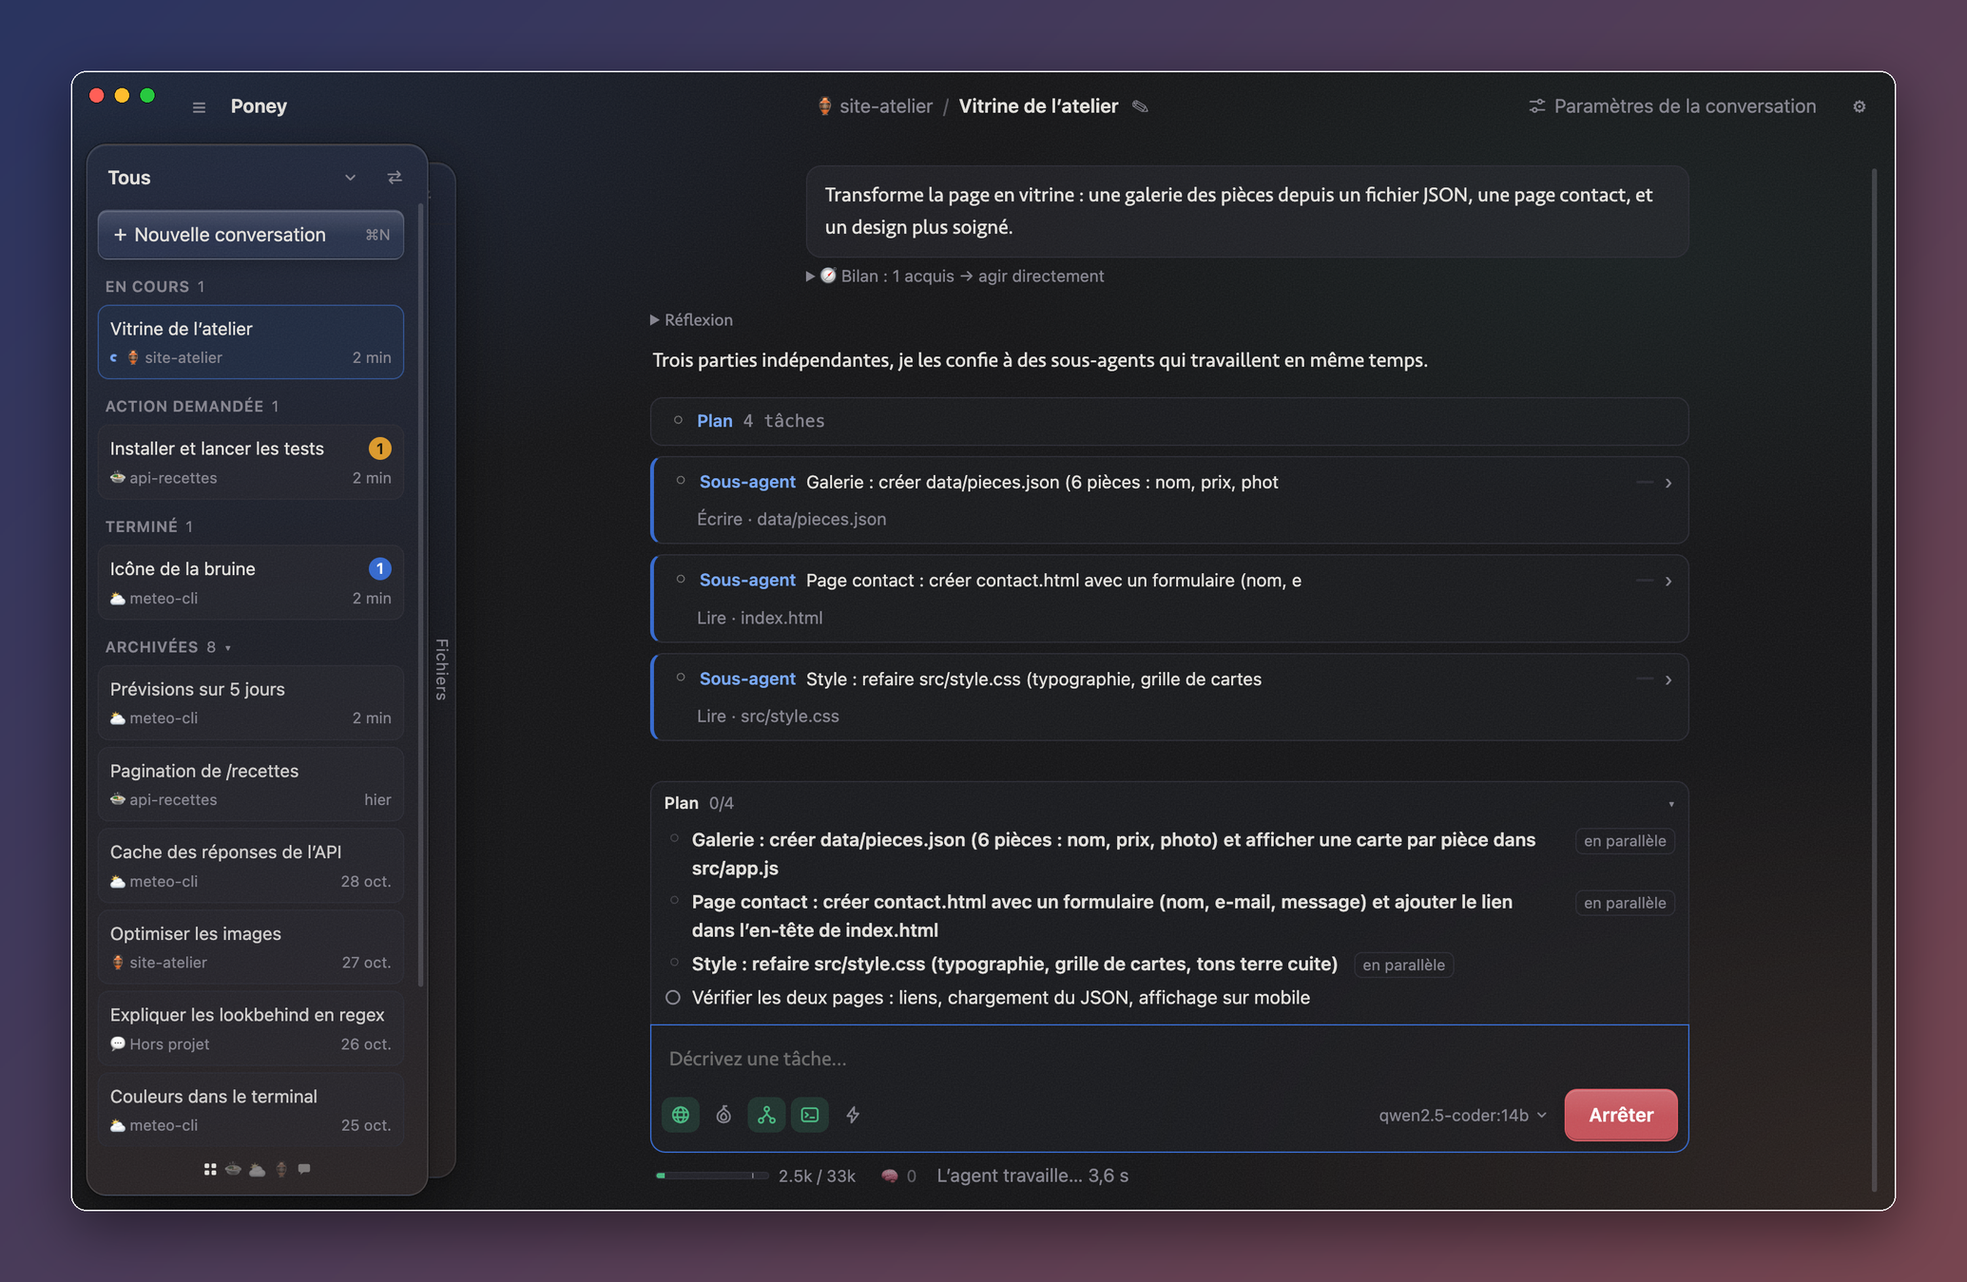
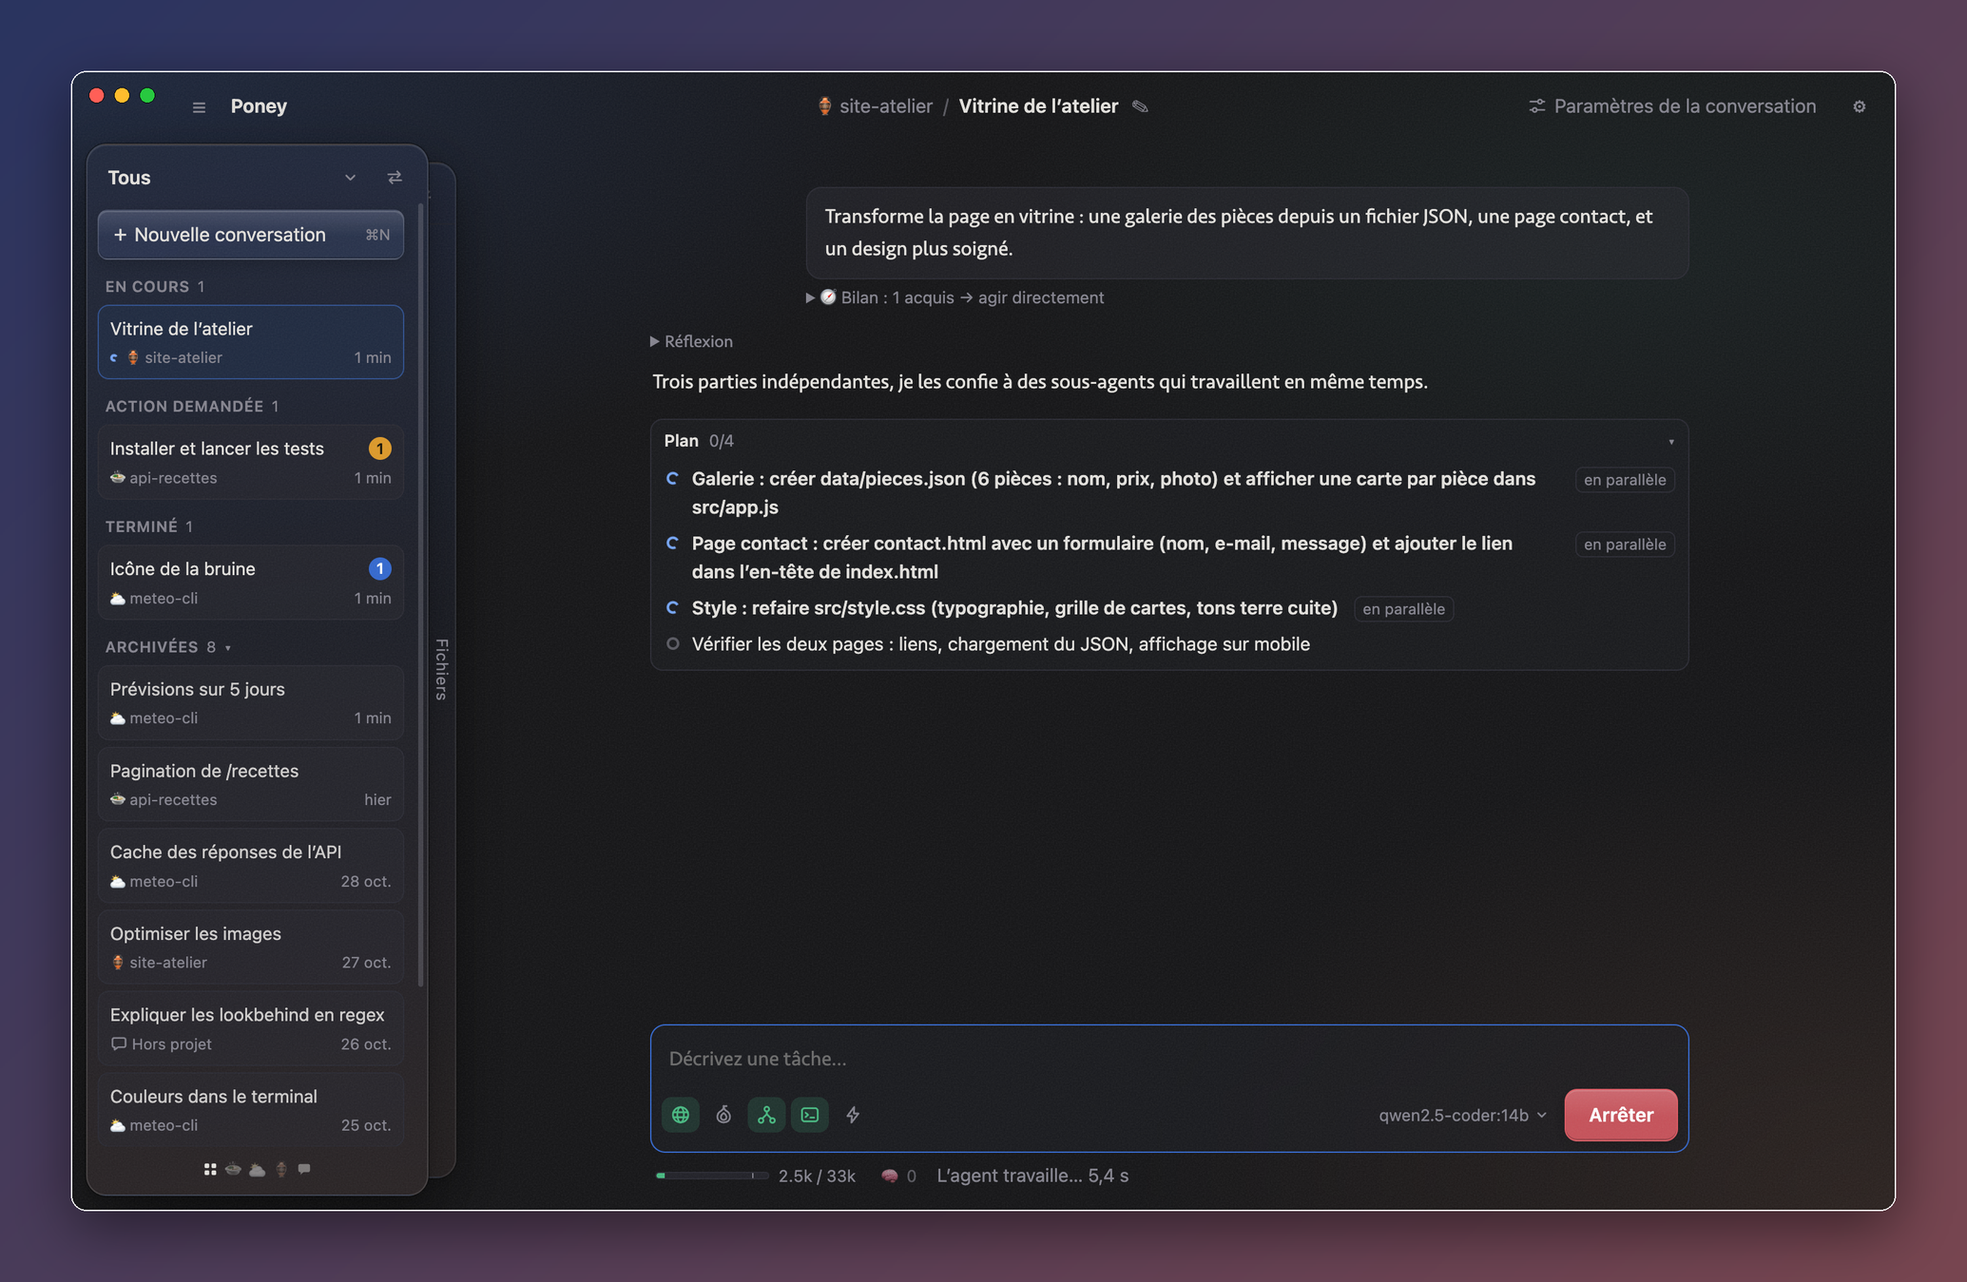
What sub-agents read counts for the assessment; plans in the conversation
A plan counted as one source however much its sub-agents had read, so a
checked answer could be refused. Their reads now count one by one. A plan
now shows in the conversation in place of its sub-agent cards: a click on
a task opens its sub-agent, and round marks give the state of each task.

diff --git a/src/renderer/app.js b/src/renderer/app.js
@@ -77,6 +77,8 @@ function setRunning(v) {
   else {
     stopRunTimer();
     $('status').textContent = '';
+    // (stopped or interrupted: nothing goes on)
+    document.querySelectorAll('.plan-list li.running').forEach((li) => li.classList.replace('running', 'pending'));
   }
 }
 
@@ -260,23 +262,48 @@ function onWorkspaceChanged() {
   refreshGauge();
 }
 
-/** The agent's task list, pinned above the input (hidden when there is none). */
-const PLAN_ICON = { pending: '○', running: '<span class="spin">◌</span>', done: '✓', failed: '✕' };
-function renderPlan(tasks = []) {
-  const panel = $('planPanel');
-  panel.classList.toggle('hidden', !tasks.length);
-  if (!tasks.length) return;
+// A plan, in the conversation: its tasks, with the state of each. The sub-agent that
+// carries out a task has no card of its own: a click on the task shows its work.
+let planBlock = null; // the plan being carried out: { el, tasks, agents (title -> action id) }
+const planTitle = (t) => taskParts(t.text).head.slice(0, 60); // (the title of its sub-agent)
+
+function startPlanBlock(card) {
+  const el = div('plan-panel', '<div class="plan-head" role="button"><span class="plan-title">Plan</span><span class="plan-count"></span><span class="plan-chev">▾</span></div><ol class="plan-list"></ol>');
+  const resume = card.querySelector('.resume-btn');
+  if (resume) el.querySelector('.plan-head').append(resume);
+  el.querySelector('.plan-head').onclick = () => el.classList.toggle('collapsed');
+  el.querySelector('.plan-list').onclick = (e) => {
+    const li = e.target.closest('li[data-agent]');
+    if (!li) return;
+    if (e.target.closest('.resume-btn')) resumeFromAction(Number(li.dataset.agent));
+    else openAgentPanel(Number(li.dataset.agent));
+  };
+  add(el);
+  planBlock = { el, tasks: [], agents: new Map() };
+}
+
+function renderPlan(tasks) {
+  if (!planBlock) return;
+  planBlock.tasks = tasks;
+  const { el, agents } = planBlock;
   const done = tasks.filter((t) => t.status === 'done').length;
-  panel.querySelector('.plan-count').textContent = `${done}/${tasks.length}`;
-  panel.querySelector('.plan-list').innerHTML = tasks.map((t) => {
+  el.querySelector('.plan-count').textContent = `${done}/${tasks.length}`;
+  el.querySelector('.plan-list').innerHTML = tasks.map((t) => {
     // (the commands of a step, which parsePlan puts in its task, as a list under it)
     const { head, parts } = taskParts(t.text);
     const sub = parts.length ? `<ul class="plan-parts">${parts.map((p) => `<li>${esc(p)}</li>`).join('')}</ul>` : '';
-    return `<li class="${t.status}"><span class="plan-box">${PLAN_ICON[t.status] || '○'}</span><div class="plan-text"><span>${esc(head)}</span>${sub}</div>${t.parallel ? '<span class="tag">en parallèle</span>' : ''}</li>`;
+    const agent = agents.get(planTitle(t));
+    const resume = agent !== undefined && cards.get(agent)?.querySelector('.resume-btn') ? '<button class="resume-btn" type="button" title="Relancer cette action et reprendre la conversation à partir d’elle (la suite est retirée)">↻ Reprendre d’ici</button>' : '';
+    return `<li class="${t.status}${agent === panelAgent && agent !== undefined ? ' shown' : ''}"${agent === undefined ? '' : ` data-agent="${agent}" title="Voir son travail dans le panneau de droite"`}><span class="plan-dot"></span><div class="plan-text"><span>${esc(head)}</span>${sub}</div>${t.parallel ? '<span class="tag">en parallèle</span>' : ''}${resume}</li>`;
   }).join('');
-  panel.classList.toggle('all-done', done === tasks.length);
+  markWaiting();
 }
-$('planPanel').querySelector('.plan-head').onclick = () => $('planPanel').classList.toggle('collapsed');
+/** A sub-agent waiting for an approval: the state of its task says so. */
+function markWaiting() {
+  for (const li of document.querySelectorAll('.plan-list li[data-agent]')) {
+    li.classList.toggle('waiting', Boolean(agentViews.get(Number(li.dataset.agent))?.querySelector('.approval')));
+  }
+}
 
 // ---------- a sub-agent's work, in the side panel ----------
 const agentViews = new Map(); // sub-agent action id -> its view (task, log, report)
@@ -288,6 +315,7 @@ function renderAgentPanelHead() {
   $('agentPanelInfo').textContent = card ? (card.classList.contains('running') ? 'en cours' : card.classList.contains('ok') ? 'terminé' : 'échec') : '';
   document.querySelectorAll('.card.subagent.shown').forEach((c) => c.classList.remove('shown'));
   card?.classList.add('shown');
+  for (const li of document.querySelectorAll('.plan-list li[data-agent]')) li.classList.toggle('shown', Number(li.dataset.agent) === panelAgent);
   renderGauge(agentContext.get(panelAgent), $('agentPanelGauge'), { sub: true });
 }
 
@@ -308,7 +336,7 @@ function closeAgentPanel() {
   panelAgent = null;
   $('agentPanel').classList.add('hidden');
   $('agentPanelBody').replaceChildren();
-  document.querySelectorAll('.card.subagent.shown').forEach((c) => c.classList.remove('shown'));
+  document.querySelectorAll('.card.subagent.shown, .plan-list li.shown').forEach((c) => c.classList.remove('shown'));
 }
 $('agentPanelClose').onclick = closeAgentPanel;
 
@@ -351,7 +379,7 @@ function clearTranscript() {
   agentViews.clear();
   agentContext.clear();
   renderMemory([]);
-  renderPlan([]);
+  planBlock = null;
   transcript.innerHTML = '';
   bubbles.clear();
   cards.clear();
@@ -459,7 +487,7 @@ function fillUserBubble(bubble, text) {
 }
 
 function addUserMessage(text, turnId) {
-  if (!target) renderPlan([]); // a plan is the plan of one request
+  if (!target) planBlock = null; // a plan is the plan of one request
   const m = div('msg user');
   fillUserBubble(m.appendChild(div('bubble')), text);
   if (turnId) {
@@ -546,7 +574,7 @@ function replayTranscript(events) {
   const shownAgent = panelAgent;
   agentViews.clear();
   agentContext.clear();
-  renderPlan([]); // the last plan event of the conversation shows it again
+  planBlock = null;
   renderMemory([]); // (same for the memory)
   transcript.innerHTML = '';
   document.querySelector('.chat').classList.remove('fresh');
@@ -983,6 +1011,7 @@ function onEvent(ev) {
     target = log;
     try {
       onEvent({ ...ev, agentId: undefined });
+      markWaiting();
     } finally {
       target = saved;
     }
@@ -1079,7 +1108,10 @@ function onEvent(ev) {
         card.dataset.tool = 'agent';
         addResumeButton(card, ev);
         cards.set(ev.id, card);
-        add(card);
+        if (!target && planBlock?.tasks.some((t) => planTitle(t) === ev.args.title)) { // (shown by its task)
+          planBlock.agents.set(ev.args.title, ev.id);
+          renderPlan(planBlock.tasks);
+        } else add(card);
         break;
       }
       const card = div('card running');
@@ -1101,7 +1133,8 @@ function onEvent(ev) {
       card.dataset.path = ev.args.path || '';
       addResumeButton(card, ev);
       cards.set(ev.id, card);
-      add(card);
+      if (ev.tool === 'plan' && !target) startPlanBlock(card);
+      else add(card);
       break;
     }
     case 'action_output': {
@@ -1292,6 +1325,7 @@ function onApproval(req) {
   // A sub-agent's command: its view is shown, or the question would go unseen.
   for (const [id, view] of agentViews) if (view.contains(card) && panelAgent !== id) openAgentPanel(id);
   card.classList.add('open');
+  setTimeout(markWaiting);
   const bar = div('approval');
   bar.innerHTML = '<span></span><button class="no">Refuser</button><button class="always">Toujours autoriser</button><button class="yes">Exécuter</button>';
   bar.querySelector('span').textContent = req.agentTitle ? `Sous-agent « ${req.agentTitle} » : exécuter cette commande ?` : 'Exécuter cette commande ?';

diff --git a/src/renderer/style.css b/src/renderer/style.css
@@ -222,15 +222,14 @@ details.thinking div { white-space: pre-wrap; border-left: 2px solid var(--borde
   content: ''; position: absolute; inset: 0; z-index: -1; pointer-events: none; backdrop-filter: blur(12px);
   -webkit-mask-image: linear-gradient(to bottom, transparent, #000 22px); mask-image: linear-gradient(to bottom, transparent, #000 22px);
 }
-.composer-box, .plan-panel, .memory-panel { backdrop-filter: blur(16px) saturate(150%); }
+.composer-box, .memory-panel { backdrop-filter: blur(16px) saturate(150%); }
 .composer-box {
   max-width: 820px; margin: 0 auto; display: flex; flex-direction: column; gap: 4px;
   background: var(--surface); border: 1px solid var(--border); border-radius: 12px; padding: 8px;
 }
 .composer-box:focus-within { border-color: var(--accent-2); }
-/* The memory and the plan sit right on the input, as one block (nothing of the conversation between them). */
-.plan-panel:not(.hidden) + .composer-box, .memory-panel:not(.hidden) ~ .composer-box { border-top-left-radius: 0; border-top-right-radius: 0; }
-.memory-panel:not(.hidden) + .plan-panel { border-top-left-radius: 0; border-top-right-radius: 0; }
+/* The memory sits right on the input, as one block (nothing of the conversation between them). */
+.memory-panel:not(.hidden) ~ .composer-box { border-top-left-radius: 0; border-top-right-radius: 0; }
 /* the model, beside the send button: plain text and a chevron, highlighted on hover */
 .model-select {
   appearance: none; -webkit-appearance: none; flex: 0 1 auto; min-width: 0; max-width: 200px;
@@ -644,27 +643,32 @@ body.running .resume-btn { display: none; }
 .msg-editor .edit-error { margin: 6px 0; }
 
 /* ---------- agent's plan (pinned above the input) ---------- */
-.plan-panel { max-width: 820px; margin: 0 auto; border: 1px solid var(--border); border-bottom: none; border-radius: 10px 10px 0 0; background: var(--surface); font-size: 14px; }
-.plan-head { display: flex; align-items: center; gap: 8px; width: 100%; background: none; border: none; color: var(--text); padding: 6px 10px; font-size: 13px; text-align: left; }
+.plan-panel { border: 1px solid var(--border); border-radius: 10px; background: var(--surface); font-size: 14px; }
+#transcript > .plan-panel { padding: 0; max-width: 820px; width: calc(100% - 40px); margin-top: 8px; margin-bottom: 8px; }
+.plan-head { display: flex; align-items: center; gap: 8px; cursor: pointer; user-select: none; color: var(--text); padding: 6px 10px; font-size: 13px; }
+.plan-head:hover .resume-btn, .plan-list li:hover > .resume-btn { display: inline-block; }
 .plan-title { font-weight: 600; }
 .plan-count { color: var(--muted); }
 .plan-chev { margin-left: auto; color: var(--muted); transition: transform 0.15s; }
 .plan-panel.collapsed .plan-chev { transform: rotate(-90deg); }
 .plan-panel.collapsed .plan-list { display: none; }
-.plan-list { list-style: none; margin: 0; padding: 0 10px 8px; max-height: 28vh; overflow-y: auto; }
-.plan-list li { display: flex; align-items: baseline; gap: 8px; padding: 2px 0; }
-.plan-box { width: 14px; flex: none; text-align: center; color: var(--muted); }
-.plan-list li.done .plan-box { color: #3fb950; }
+.plan-list { list-style: none; margin: 0; padding: 0 4px 6px; }
+.plan-list > li { display: flex; align-items: baseline; gap: 8px; padding: 3px 6px; border-radius: 7px; }
+.plan-list > li[data-agent] { cursor: pointer; }
+.plan-list > li[data-agent]:hover, .plan-list > li.shown { background: color-mix(in srgb, var(--text) 7%, transparent); }
+/* the state of a task: the same rounds as for a conversation in the sidebar */
+.plan-dot { flex: none; align-self: flex-start; box-sizing: border-box; width: 10px; height: 10px; margin: 6px 2px 0; border-radius: 50%; border: 2px solid color-mix(in srgb, var(--muted) 60%, transparent); }
+.plan-list li.running .plan-dot { border-color: var(--accent); border-right-color: transparent; animation: spin 0.9s linear infinite; }
+.plan-list li.done .plan-dot { border-color: var(--accent-2); background: var(--accent-2); }
+.plan-list li.failed .plan-dot { border-color: var(--err); background: var(--err); }
+.plan-list li.waiting .plan-dot { border-color: #e3a008; background: #e3a008; animation: none; }
 .plan-list li.done .plan-text { color: var(--muted); }
 .plan-list li.done .plan-text > span { text-decoration: line-through; }
-.plan-list li.failed .plan-box { color: #f85149; }
 .plan-list li.running .plan-text { font-weight: 600; }
 .plan-text { min-width: 0; }
 .plan-list .plan-parts { list-style: disc; margin: 1px 0 2px; padding-left: 16px; font-size: 13px; color: var(--muted); }
-.plan-list .plan-parts li { display: list-item; padding: 0; }
 .plan-list li.running .plan-parts { font-weight: 400; }
 .plan-list .tag { margin-left: 4px; font-size: 12px; color: var(--muted); border: 1px solid var(--border); border-radius: 6px; padding: 0 6px; white-space: nowrap; }
-.plan-panel.hidden { display: none; }
 
 /* ---------- formatted Markdown documents (viewer) ---------- */
 .md-doc { max-width: 780px; margin: 0 auto; padding: 18px 26px 40px; line-height: 1.6; font-size: 15px; }

diff --git a/src/agent/agent.js b/src/agent/agent.js
@@ -161,6 +161,7 @@ export class Agent extends EventEmitter {
     this.checkpoints = []; // [{ turnId, archive: index | null (current history), length, untested }]
     this.archives = []; // pre-compaction histories (null once no checkpoint needs them)
     this.parentHistory = []; // a sub-agent: the conversation of its parent, for <recall>
+    this.subSources = 0; // sources its sub-agents have read, not counted yet in the turn
     this.serverCtx = null; // context length actually loaded on the server, if it says
     this.serverCtxKey = null;
     this.serverCtxAt = 0;
@@ -579,6 +580,7 @@ export class Agent extends EventEmitter {
       if (ev.type === 'action_start') started.set(ev.id, ev);
       if (ev.type === 'action_end' && ev.ok) {
         const a = started.get(ev.id);
+        if (SOURCE_TOOLS.has(a?.tool)) this.subSources++;
         if (a?.tool === 'write' || a?.tool === 'edit') work.push(`${a.tool === 'write' ? 'wrote' : 'edited'} ${String(a.args.path || '').trim()}`);
         if (a?.tool === 'run') work.push(`ran \`${String(a.args.command || '').replace(/\s+/g, ' ').slice(0, 160)}\`${ev.meta?.exit !== undefined ? ` (exit ${ev.meta.exit})` : ''}`);
       }
@@ -1346,7 +1348,8 @@ export class Agent extends EventEmitter {
             const ids = toRun.map(() => nextId++);
             resumePoint(ids, 0); // resuming any member re-runs the whole group
             results.push(...await this.runSubAgents(toRun, signal, ids));
-            sourcesRead += toRun.length;
+            sourcesRead += this.subSources; // (what they read, for the route of the assessment)
+            this.subSources = 0;
             changedThisTurn = true; // sub-agents may have changed files
           }
           toRun.length = 0;
@@ -1419,7 +1422,8 @@ export class Agent extends EventEmitter {
               if (e.planText) e.partialResults = [...results, formatResult('plan', {}, e.planText)];
               throw e;
             }
-            sourcesRead++;
+            sourcesRead += this.subSources;
+            this.subSources = 0;
             this.emit('event', { type: 'action_end', id: actId, ok: out.ok, output: out.text, meta: { tasks: this.taskPlan?.tasks.length ?? 0 } });
             results.push(out.result);
             continue;

diff --git a/test/triage.test.js b/test/triage.test.js
@@ -369,3 +369,25 @@ test('a server too old for "think": the assessment is asked again without it', a
   assert.deepEqual(f.requests.map((r) => [isTriage(r), 'think' in r, Boolean(r.format)]), [[true, true, true], [true, false, true], [false, false, false]]);
   assert.equal(events.find((e) => e.type === 'triage').route, 'direct');
 });
+
+test('what the sub-agents of a plan read counts for the route: their answer is not refused', async () => {
+  const cwd = await fs.mkdtemp(path.join(os.tmpdir(), 'lcx-triage-'));
+  await fs.writeFile(path.join(cwd, 'a.txt'), 'alpha');
+  await fs.writeFile(path.join(cwd, 'b.txt'), 'beta');
+  let reads = 0;
+  const f = await fake((r) => {
+    if (isTriage(r)) return JSON.stringify({ known: [], doubts: [], unknowns: [{ point: 'what the files hold', why: 'never read' }] });
+    if (r.messages[0].content.startsWith('You are a sub-agent')) return ['<read path="a.txt" />', '<read path="b.txt" />'][reads++] ?? 'Alpha and beta.';
+    return /<result tool="plan"/.test(lastUser(r)) ? 'They hold alpha and beta.' : '<plan>\n- read the files\n</plan>';
+  });
+  const agent = new Agent({ cwd, triage: true, config: { baseUrl: f.url, model: 'm', shellEnabled: false, subagentsEnabled: true } });
+  const events = [];
+  agent.on('event', (e) => events.push(e));
+  try {
+    await agent.send('What do the files hold?');
+  } finally {
+    f.server.close();
+  }
+  assert.equal(events.filter((e) => e.type === 'notice' && /refusée/.test(e.text)).length, 0);
+  assert.equal(events.filter((e) => e.type === 'final' && !e.agentId).pop().text, 'They hold alpha and beta.');
+});

diff --git a/src/renderer/index.html b/src/renderer/index.html
@@ -61,12 +61,6 @@
       <ol id="memoryList"></ol>
       <form id="memoryForm" class="memory-add"><input id="memoryInput" maxlength="200" placeholder="Ajouter une note pour l’agent…"><button class="ghost" type="submit">Ajouter</button></form>
     </div>
-    <div id="planPanel" class="plan-panel hidden">
-      <button class="plan-head" type="button" title="Afficher / masquer le plan de l’agent">
-        <span class="plan-title">Plan</span><span class="plan-count"></span><span class="plan-chev">▾</span>
-      </button>
-      <ol class="plan-list"></ol>
-    </div>
     <div class="composer-box">
       <textarea id="input" rows="1" placeholder="Décrivez une tâche…" title="Entrée pour envoyer, Maj+Entrée pour un retour à la ligne"></textarea>
       <div class="composer-row">

diff --git a/README.md b/README.md
@@ -250,7 +250,7 @@ node src/cli.js --cwd ./my-project --model qwen2.5:14b "task"   # headless mode
   says), the plan with its task marked, the
   reports of the tasks already done, and what the earlier sub-agents actually changed (files written or edited,
   commands run), with the instruction to do only what is still missing (one may have gone beyond its task). A failed task stops the plan there; the model gets the reports
-  and may write a new plan, which runs only what is left. The plan is pinned above the input; a new message starts
+  and may write a new plan, which runs only what is left. The plan is shown in the conversation, a click on a task shows the work of its sub-agent; a new message starts
   without one. Without sub-agents, the plan is a list the model follows itself.
 - **Viewer** with syntax highlighting and image preview; paths in the agent's actions are clickable. Markdown
   documents open formatted (GitHub Markdown, LaTeX formulas, highlighted code, project images; links to project
